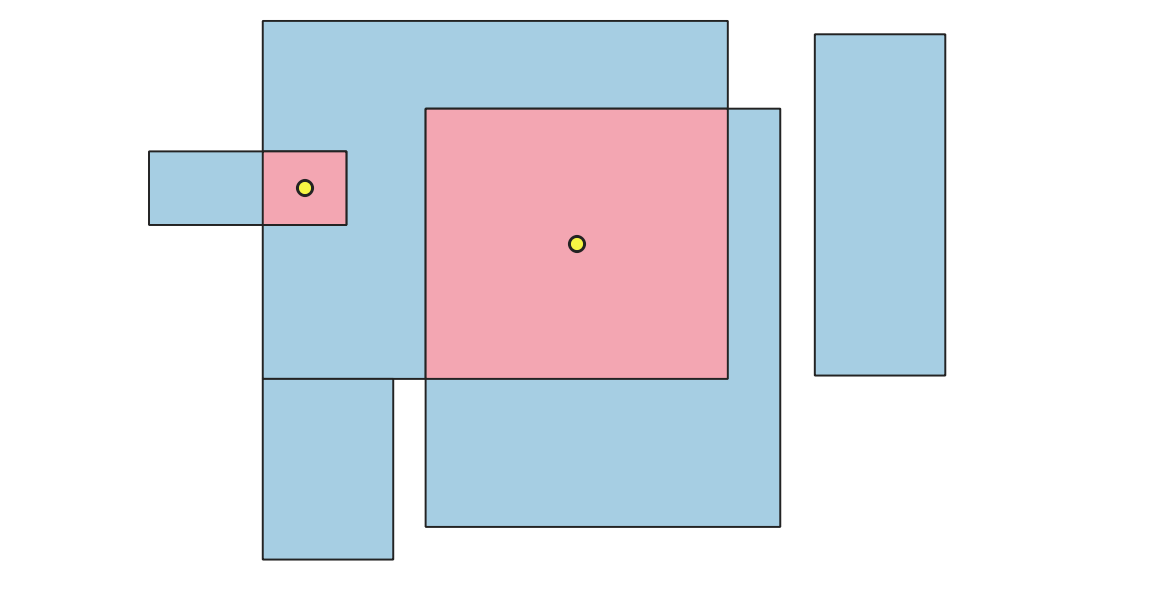
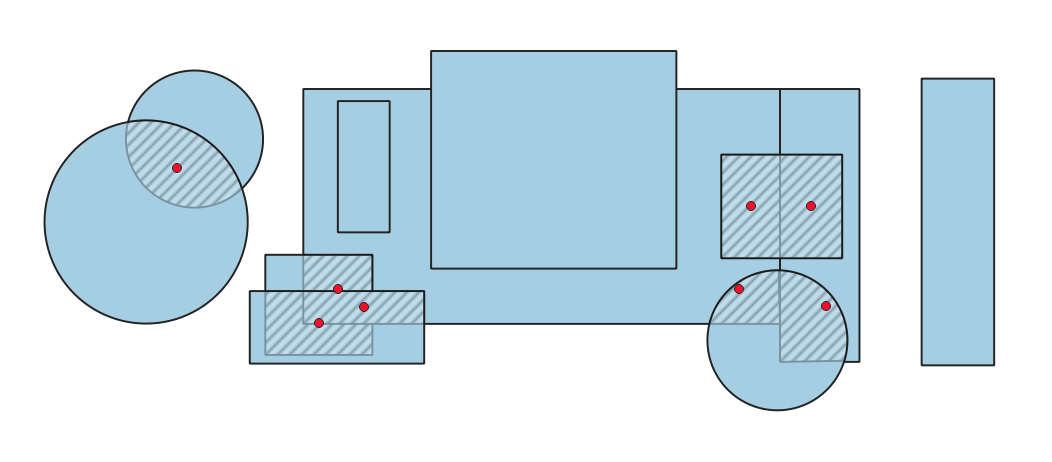
Apply feedback, solve conflict

diff --git a/docs/user_manual/processing_algs/qgis/checkgeometry.rst b/docs/user_manual/processing_algs/qgis/checkgeometry.rst
@@ -888,12 +888,12 @@ Python code
 Overlaps
 ------------------
 
-Calculates area in polygon geometries, and reports areas smaller than the minimum overlapping area as errors.
+Calculates overlapping areas in polygon geometries, and reports areas smaller than a given minimum as errors.
 
 .. figure:: img/check_geometry_overlaps.png
    :align: center
 
-   Red polygons indicate errors on area smaller than five map units.
+   Hashed polygons indicate overlapping areas smaller than the specified minimum.
 
 .. .. seealso:: :ref:`qgisfixgeometryoverlap`
 
@@ -930,7 +930,7 @@ Basic parameters
      - [vector: point]
 
        Default: ``[Create temporary layer]``
-     - Specification of the output layer containing centroid points of the overlapping polygons.
+     - Specification of the output layer containing centroid points of the overlapping areas.
        :ref:`One of <output_parameter_widget>`:
 
        .. include:: ../algs_include.rst
@@ -987,18 +987,18 @@ Outputs
      - ``ERRORS``
      - [vector: point]
      - Output point layer representing the error locations and information.
-       Other than the input attributes, the output layer also contains the following fields:
+       Other than the ``UNIQUE_ID`` field, the output layer also contains the following fields:
        
        - ``gc_layerid``: the ID of the input layer.
        - ``gc_layername``: the name of the input layer.
        - ``gc_errorx``: the x coordinate of the centroid of the overlapping area.
        - ``gc_errory``: the y coordinate of the centroid of the overlapping area.
-       - ``gc_error``: a description of the error.
-       - ``gc_overlap_feature_fid``: the ID of the overlapping feature.
+       - ``gc_error``: the area of the overlapping geometry.
+       - ``gc_overlap_feature_{unique_id}``: the ``UNIQUE_ID`` field value for the overlapping feature.
    * - **Overlap features**
      - ``OUTPUT``
      - [vector: polygon]
-     - Output layer containing, for each identified small area, the feature it belongs to.
+     - Output layer containing the overlapping areas.
        Additional fields are available (see ``ERRORS`` output).
 
 Python code
